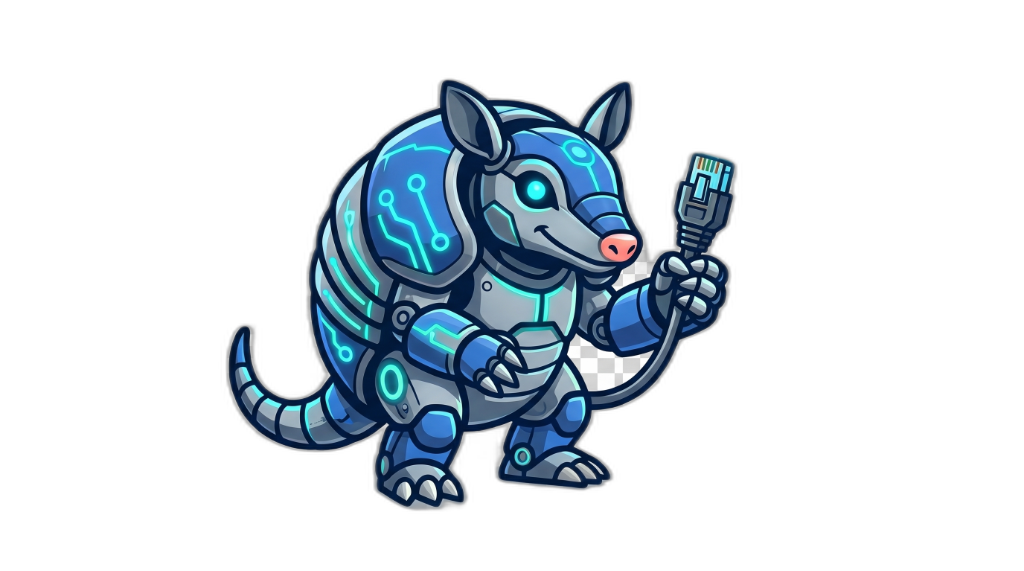
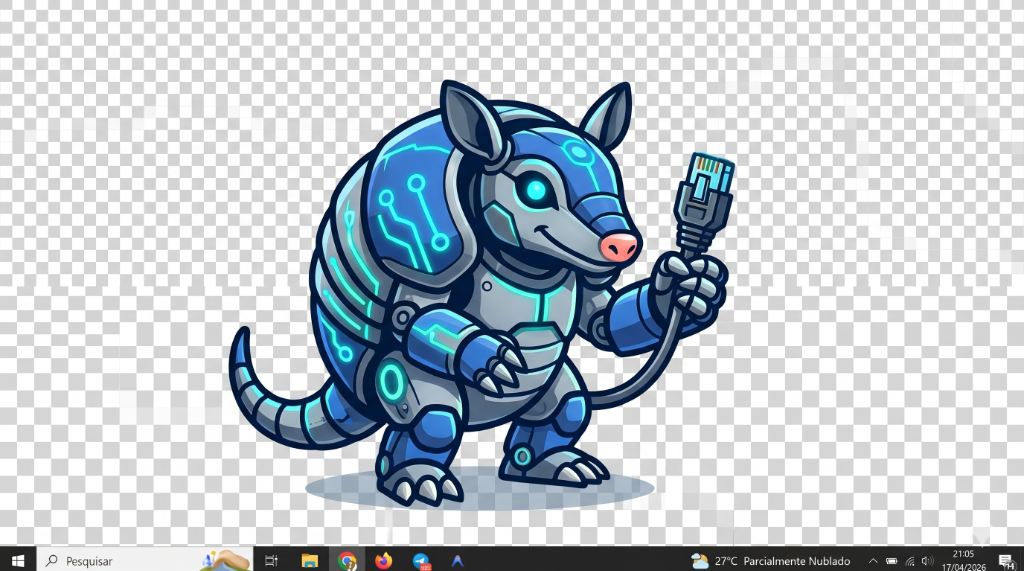
docs: add mascote, dashboard screenshot and README updates

diff --git a/README.md b/README.md
@@ -1,5 +1,6 @@
 <div align="center">
-  <h1>🛸 Agente Caio Core (CaioCore)</h1>
+  <img src="docs/mascote.png" alt="Mascote Agente Caio" width="200"/>
+  <h1>Agente Caio Core (CaioCore)</h1>
   <p><strong>A Solução Suprema para Operações Inteligentes e Framework Unificado de IA</strong></p>
   <p>
     <img src="https://img.shields.io/badge/Versão-Premium_v4.0-violet?style=for-the-badge" alt="Versão Premium">
